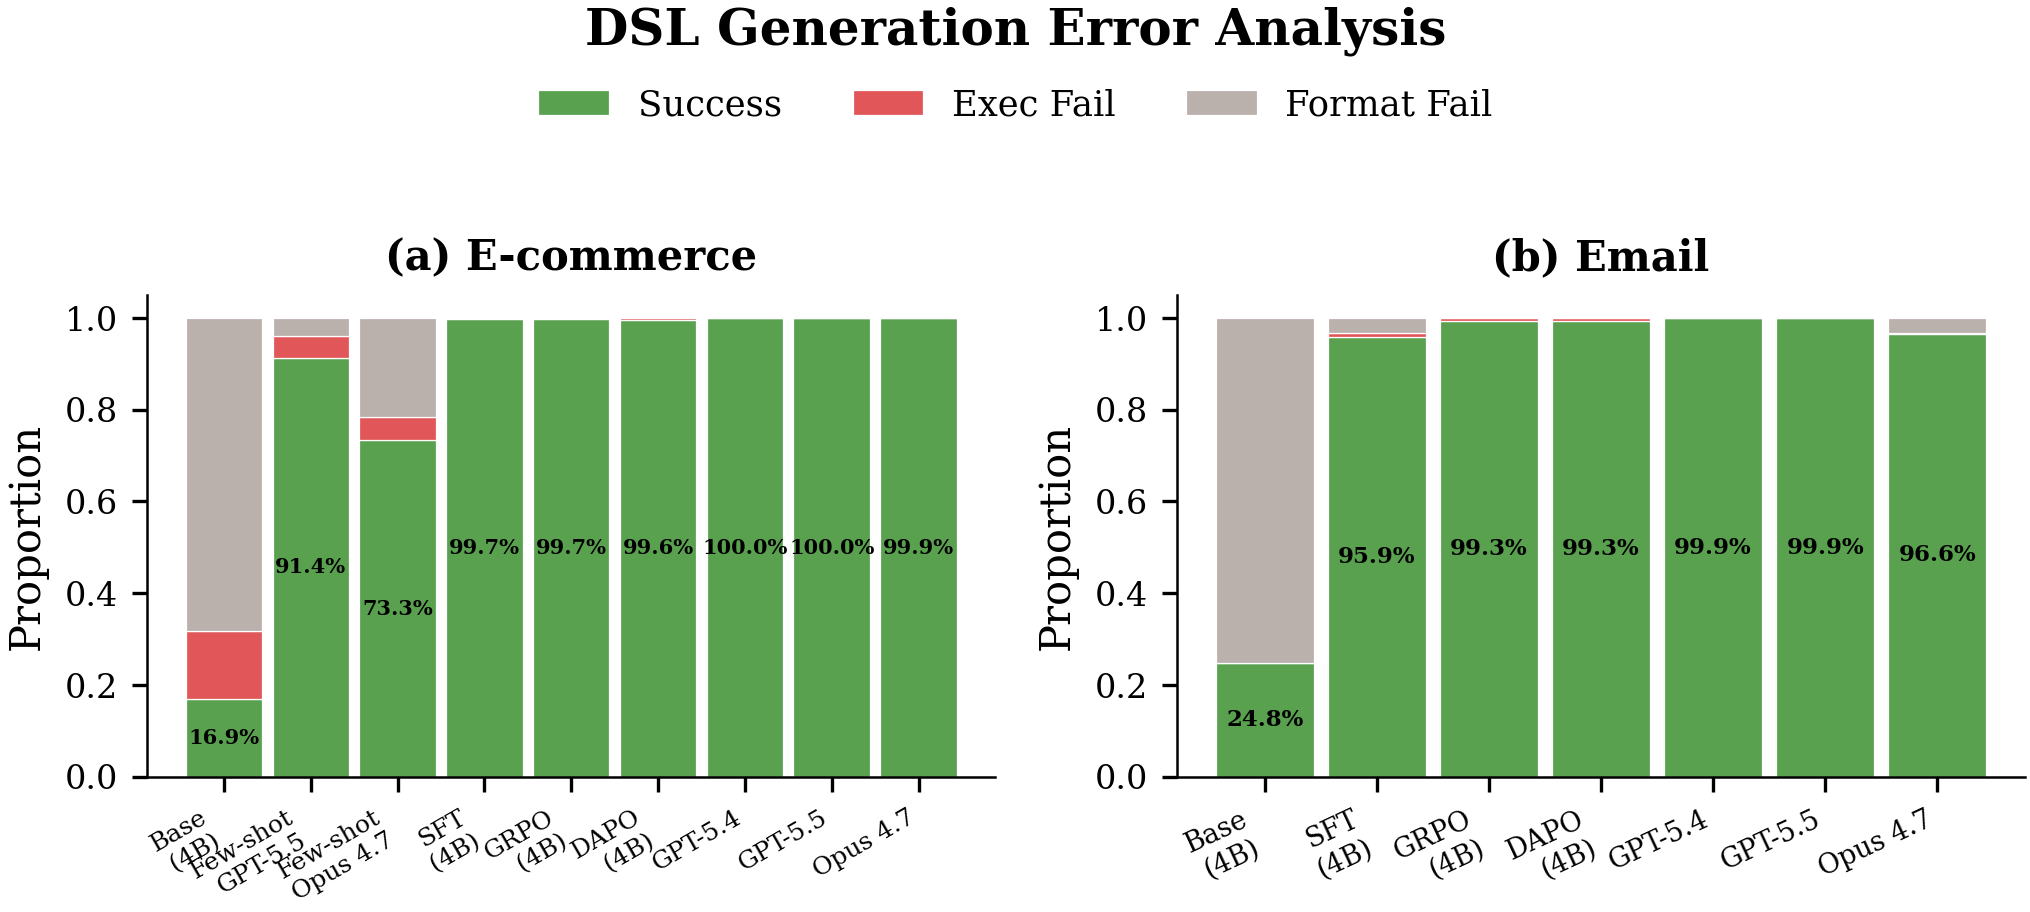
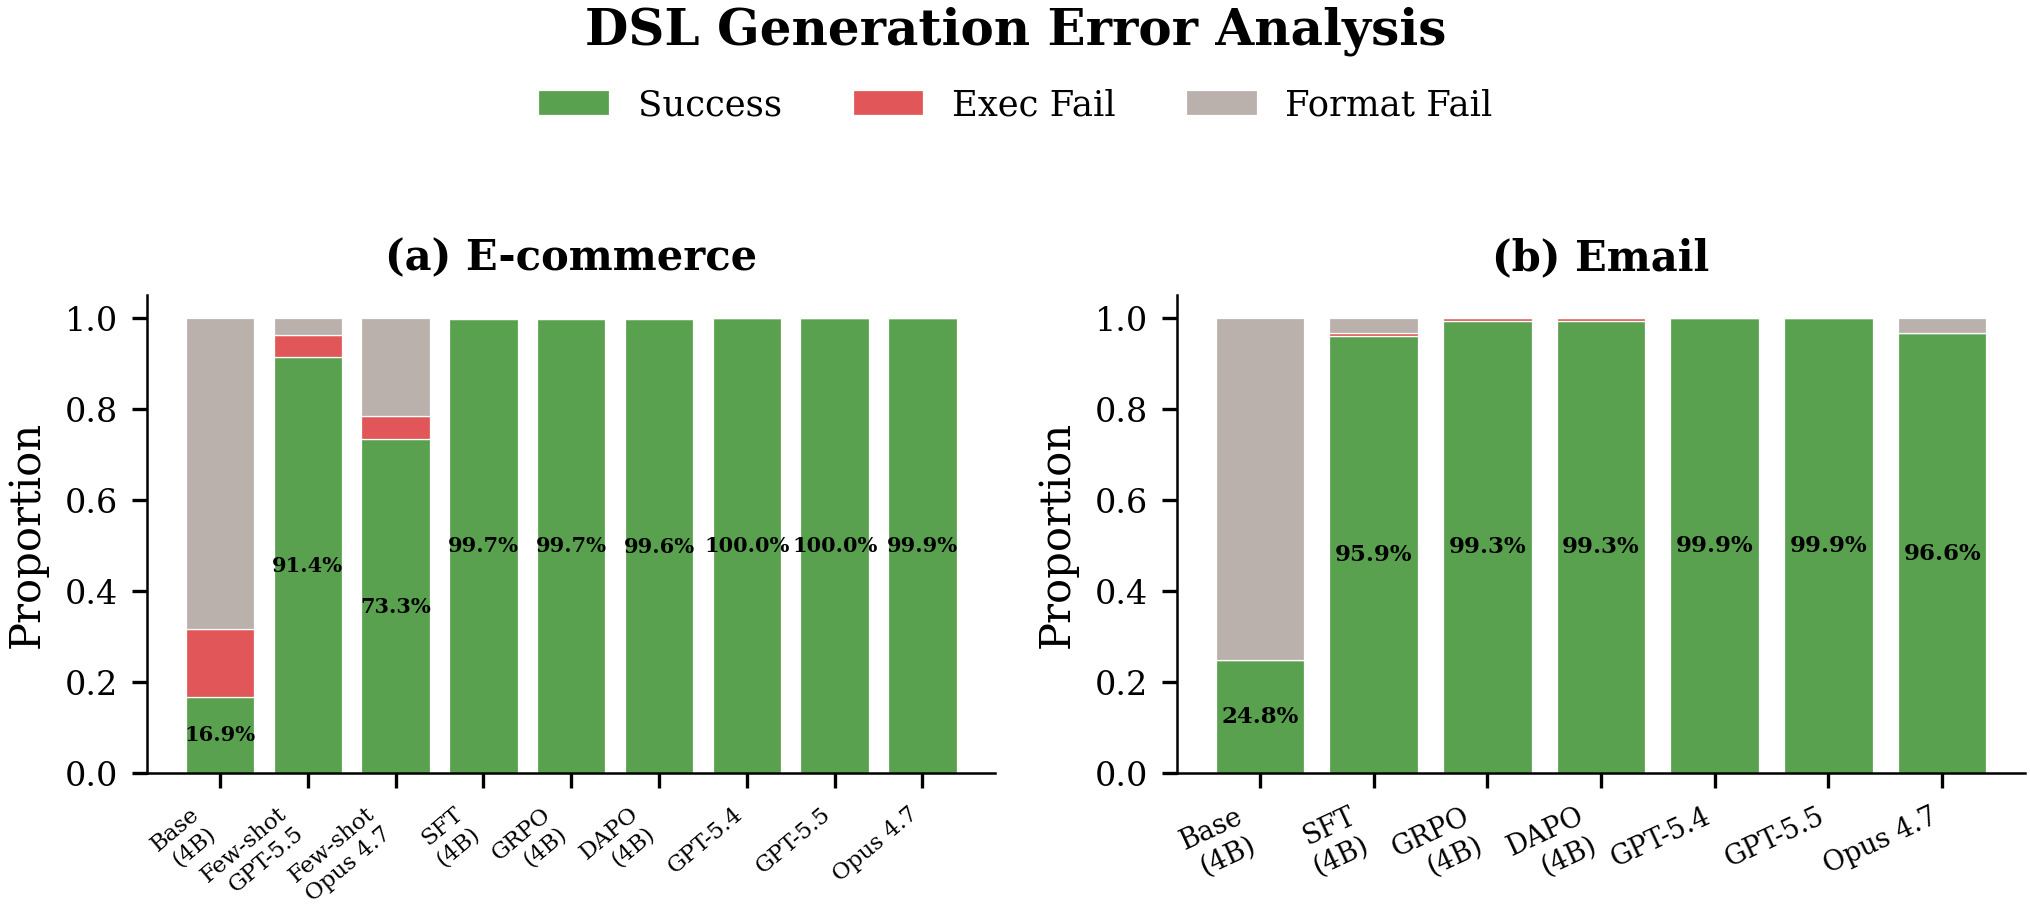
Fig E9: fix overlapping x-axis labels (bar width 0.88→0.78, rotation 30→40)

diff --git a/figures/paper/generate_all_figures.py b/figures/paper/generate_all_figures.py
@@ -714,7 +714,7 @@ def fig_e9_error_analysis():
     format_fail_ec = [(t-f)/t for t, f in zip(total_ec, format_ok_ec)]
 
     x = np.arange(len(methods_ec))
-    bw = 0.88
+    bw = 0.78
     ax1.bar(x, success_ec, bw, label='Success', color=c_success, edgecolor='white', linewidth=0.3)
     ax1.bar(x, exec_fail_ec, bw, bottom=success_ec, label='Exec Fail', color=c_exec_fail, edgecolor='white', linewidth=0.3)
     bottom2 = [s+e for s, e in zip(success_ec, exec_fail_ec)]
@@ -725,7 +725,7 @@ def fig_e9_error_analysis():
 
     ax1.set_ylabel('Proportion')
     ax1.set_xticks(x)
-    ax1.set_xticklabels(methods_ec, fontsize=6, rotation=30, ha='right')
+    ax1.set_xticklabels(methods_ec, fontsize=5.5, rotation=40, ha='right')
     ax1.set_ylim(0, 1.05)
     ax1.set_title('(a) E-commerce', fontsize=10, fontweight='bold')
 
